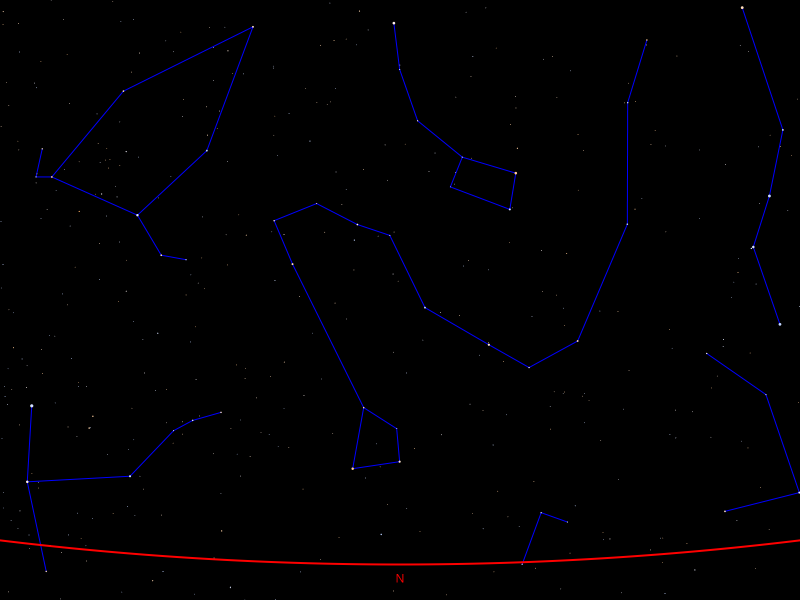
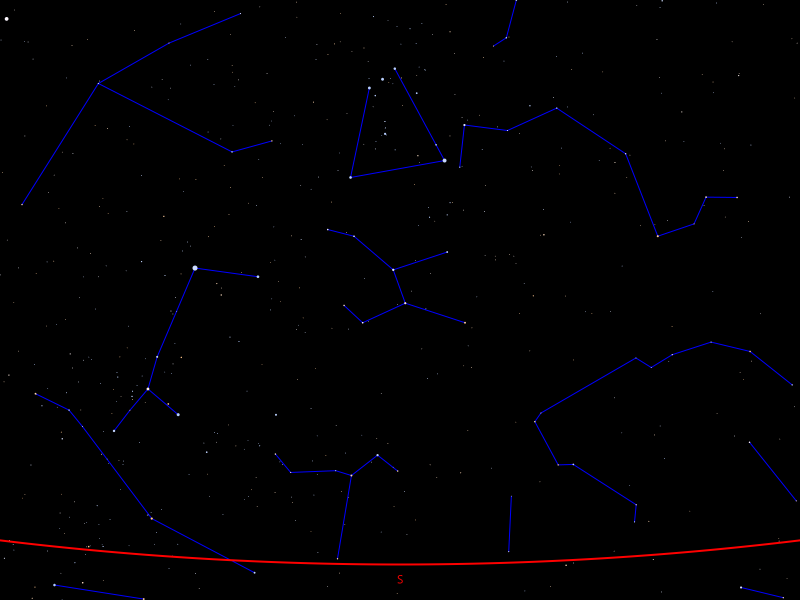
Enum CardinalPoint

diff --git a/src/ch/epfl/rigel/gui/SkyCanvasPainter.java b/src/ch/epfl/rigel/gui/SkyCanvasPainter.java
@@ -2,7 +2,6 @@ package ch.epfl.rigel.gui;
 
 import ch.epfl.rigel.astronomy.*;
 import ch.epfl.rigel.coordinates.*;
-import ch.epfl.rigel.math.Angle;
 import javafx.geometry.Bounds;
 import javafx.geometry.Point2D;
 import javafx.geometry.VPos;
@@ -174,7 +173,7 @@ public final class SkyCanvasPainter {
      *            The affine transform
      */
     void drawHorizon(StereographicProjection projection, Transform planeToCanvas) {
-        // The parallel of latitude 0 degree. Note : the azimuth chosen does not matter in the calculations
+        // The parallel of latitude 0 degree. Note : the arbitrarily chosen azimuth does not matter in the calculations
         HorizontalCoordinates parallel = HorizontalCoordinates.ofDeg(0, 0);
 
         // Projects the parallel of latitude 0 degree on the plane (resulting in the horizon) and expresses its center
@@ -188,38 +187,7 @@ public final class SkyCanvasPainter {
         ctx.strokeOval(center.x() - canvasRadius, center.y() - canvasRadius,  2.0 * canvasRadius,
                 2.0 * canvasRadius);
 
-        // The middle point at the bottom of the circle, expressed in the canvas coordinate system
-        CartesianCoordinates horizonCanvasPos = CartesianCoordinates.of(center.x(), center.y() - canvasRadius);
-
-        // The previous point expressed in horizontal coordinates
-        HorizontalCoordinates horizonHor = projection.inverseApply(horizonCanvasPos);
-
-        // The altitude corresponding to half a degree below the horizon
-        double topTextPosition = Angle.ofDeg(horizonHor.altDeg() - 0.5);
-
-        HorizontalCoordinates south = HorizontalCoordinates.ofDeg(180, topTextPosition);
-        drawCardinalPoint(south, projection, planeToCanvas);
-
-        HorizontalCoordinates southWest = HorizontalCoordinates.ofDeg(225, topTextPosition);
-        drawCardinalPoint(southWest, projection, planeToCanvas);
-
-        HorizontalCoordinates west = HorizontalCoordinates.ofDeg(270, topTextPosition);
-        drawCardinalPoint(west, projection, planeToCanvas);
-
-        HorizontalCoordinates northWest = HorizontalCoordinates.ofDeg(315, topTextPosition);
-        drawCardinalPoint(northWest, projection, planeToCanvas);
-
-        HorizontalCoordinates north = HorizontalCoordinates.ofDeg(0, topTextPosition);
-        drawCardinalPoint(north, projection, planeToCanvas);
-
-        HorizontalCoordinates northEast = HorizontalCoordinates.ofDeg(45, topTextPosition);
-        drawCardinalPoint(northEast, projection, planeToCanvas);
-
-        HorizontalCoordinates east = HorizontalCoordinates.ofDeg(90, topTextPosition);
-        drawCardinalPoint(east, projection, planeToCanvas);
-
-        HorizontalCoordinates southEast = HorizontalCoordinates.ofDeg(135, topTextPosition);
-        drawCardinalPoint(southEast, projection, planeToCanvas);
+        drawCardinalPoints(projection, planeToCanvas);
     }
 
     /**
@@ -277,22 +245,22 @@ public final class SkyCanvasPainter {
     }
 
     /**
-     * Draws the given cardinal point on the canvas under the horizon, using a stereographic projection and an affine
+     * Draws the eight cardinal points on the canvas under the horizon, using a stereographic projection and an affine
      * transform.
      *
-     * @param hor
-     *            The horizontal coordinates of the cardinal point
      * @param projection
      *            The stereographic projection
      * @param planeToCanvas
      *            The affine transform
      */
-    private void drawCardinalPoint(HorizontalCoordinates hor, StereographicProjection projection, Transform planeToCanvas){
+    private void drawCardinalPoints(StereographicProjection projection, Transform planeToCanvas) {
         ctx.setFill(Color.RED);
         ctx.setTextAlign(TextAlignment.CENTER);
         ctx.setTextBaseline(VPos.TOP);
 
-        CartesianCoordinates canvasPos = PlaneToCanvas.applyToPoint(projection.apply(hor), planeToCanvas);
-        ctx.fillText(hor.azOctantName("N","E","S","O"), canvasPos.x(), canvasPos.y());
+        for (CardinalPoint cardinalPoint : CardinalPoint.ALL) {
+            CartesianCoordinates canvasPos = PlaneToCanvas.applyToPoint(projection.apply(cardinalPoint.hor()), planeToCanvas);
+            ctx.fillText(cardinalPoint.octantName(), canvasPos.x(), canvasPos.y());
+        }
     }
 }

diff --git a/src/ch/epfl/rigel/gui/DrawSky.java b/src/ch/epfl/rigel/gui/DrawSky.java
@@ -38,7 +38,7 @@ public final class DrawSky extends Application {
 
             ZonedDateTime when = ZonedDateTime.parse("2020-02-17T20:15:00+01:00");
             GeographicCoordinates where = GeographicCoordinates.ofDeg(6.57, 46.52);
-            HorizontalCoordinates projCenter = HorizontalCoordinates.ofDeg(0, 23);
+            HorizontalCoordinates projCenter = HorizontalCoordinates.ofDeg(180, 23);
             StereographicProjection projection = new StereographicProjection(projCenter);
             ObservedSky sky = new ObservedSky(when, where, projection, catalogue);
 

diff --git a/src/ch/epfl/rigel/coordinates/CardinalPoint.java b/src/ch/epfl/rigel/coordinates/CardinalPoint.java
@@ -31,8 +31,8 @@ public enum CardinalPoint {
      *            The azimuth of the cardinal point (in degrees)
      */
     CardinalPoint(double azDeg) {
-        this.hor = HorizontalCoordinates.ofDeg(azDeg, 0);
-        this.name = hor.azOctantName("N", "E", "S", "W");
+        this.hor = HorizontalCoordinates.ofDeg(azDeg, -0.5);
+        this.name = hor.azOctantName("N", "E", "S", "O");
     }
 
     /**
